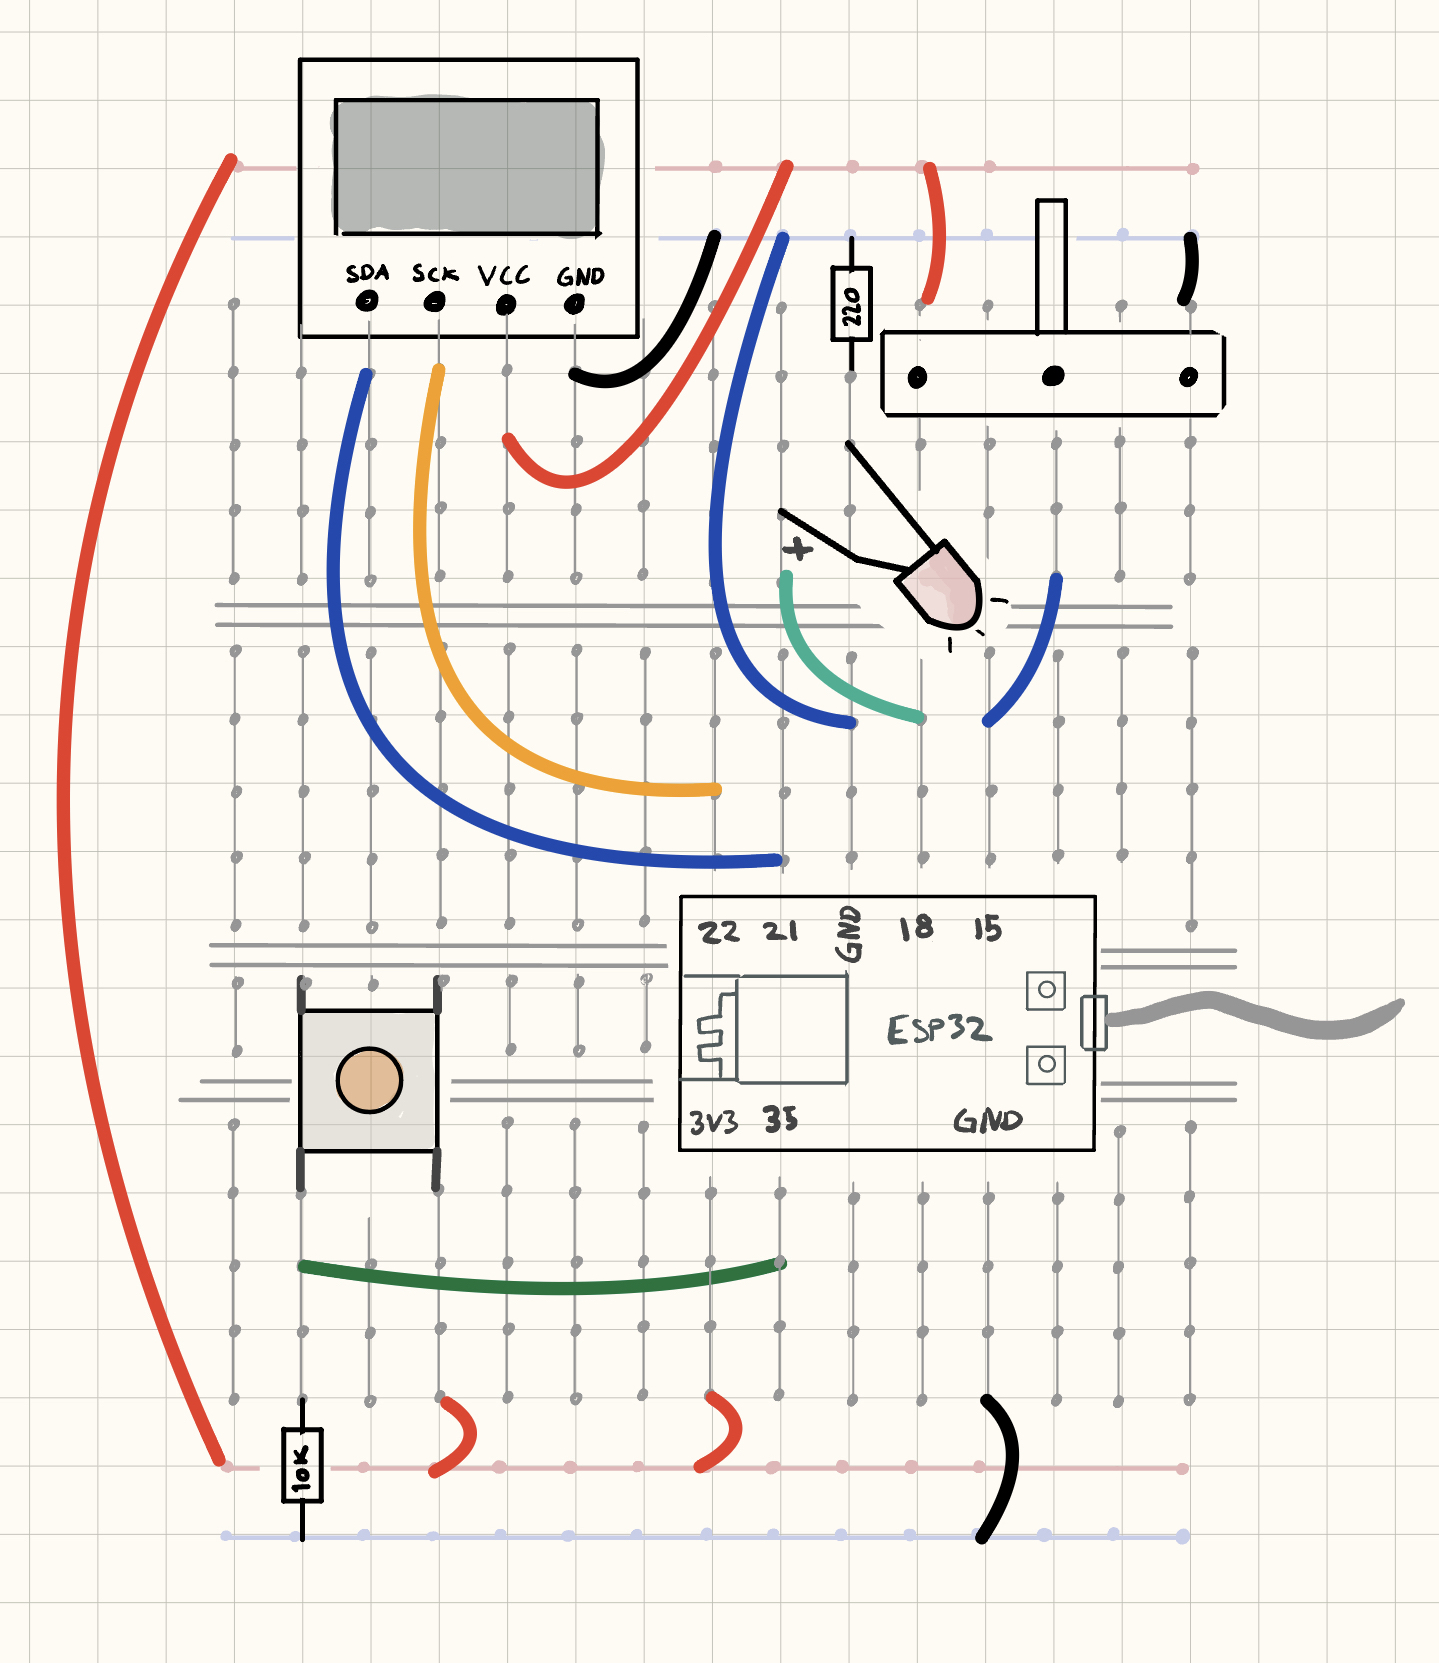
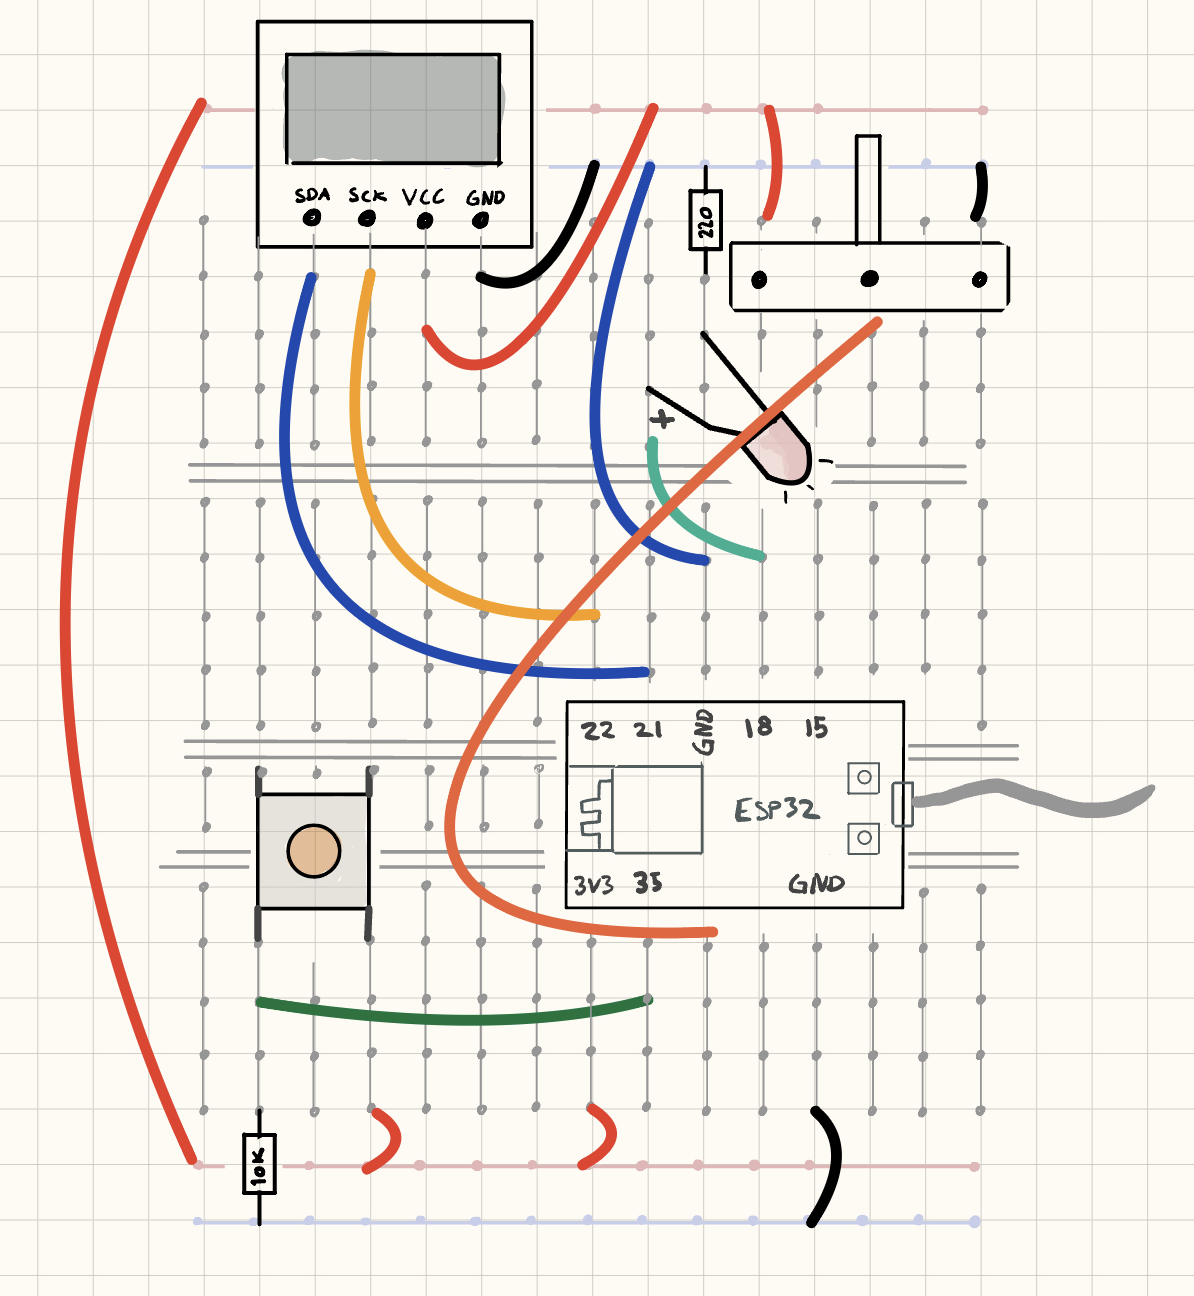
endret inngang

Changed region(s): [[0.031, 0.0, 0.9916, 0.9568]]

diff --git a/hardware/potmetertilsky/README.md b/hardware/potmetertilsky/README.md
@@ -60,8 +60,9 @@ Koble opp som vist:
 
 ![](./step4_bb.jpeg)
 
-![](./step4_cam_2.jpg)
+![](./step4_cam_3.jpg)
 ![](./step4_cam_1.jpg)
+![](./step4_cam_2.jpg)
 
 Last opp programmet.
 
